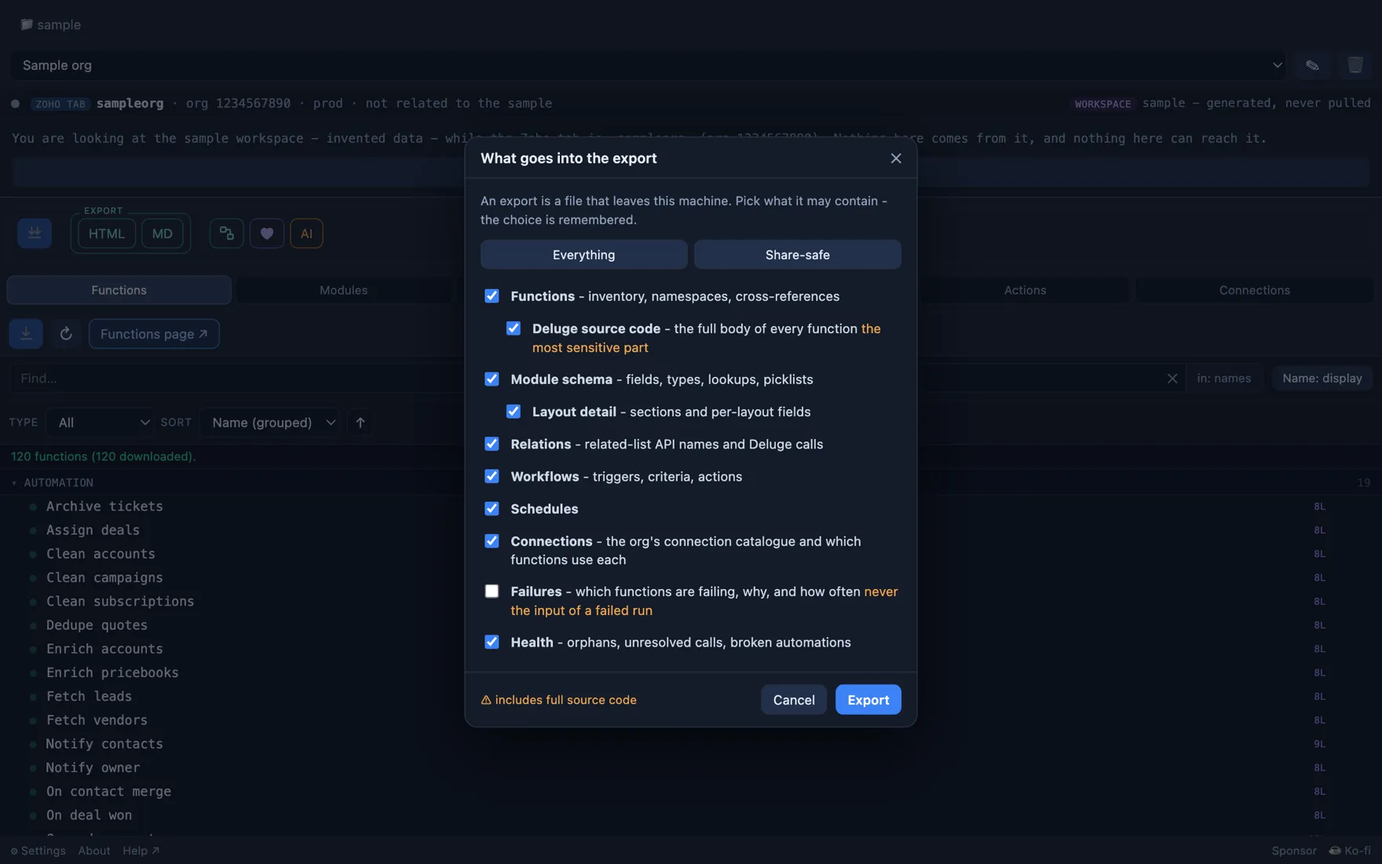
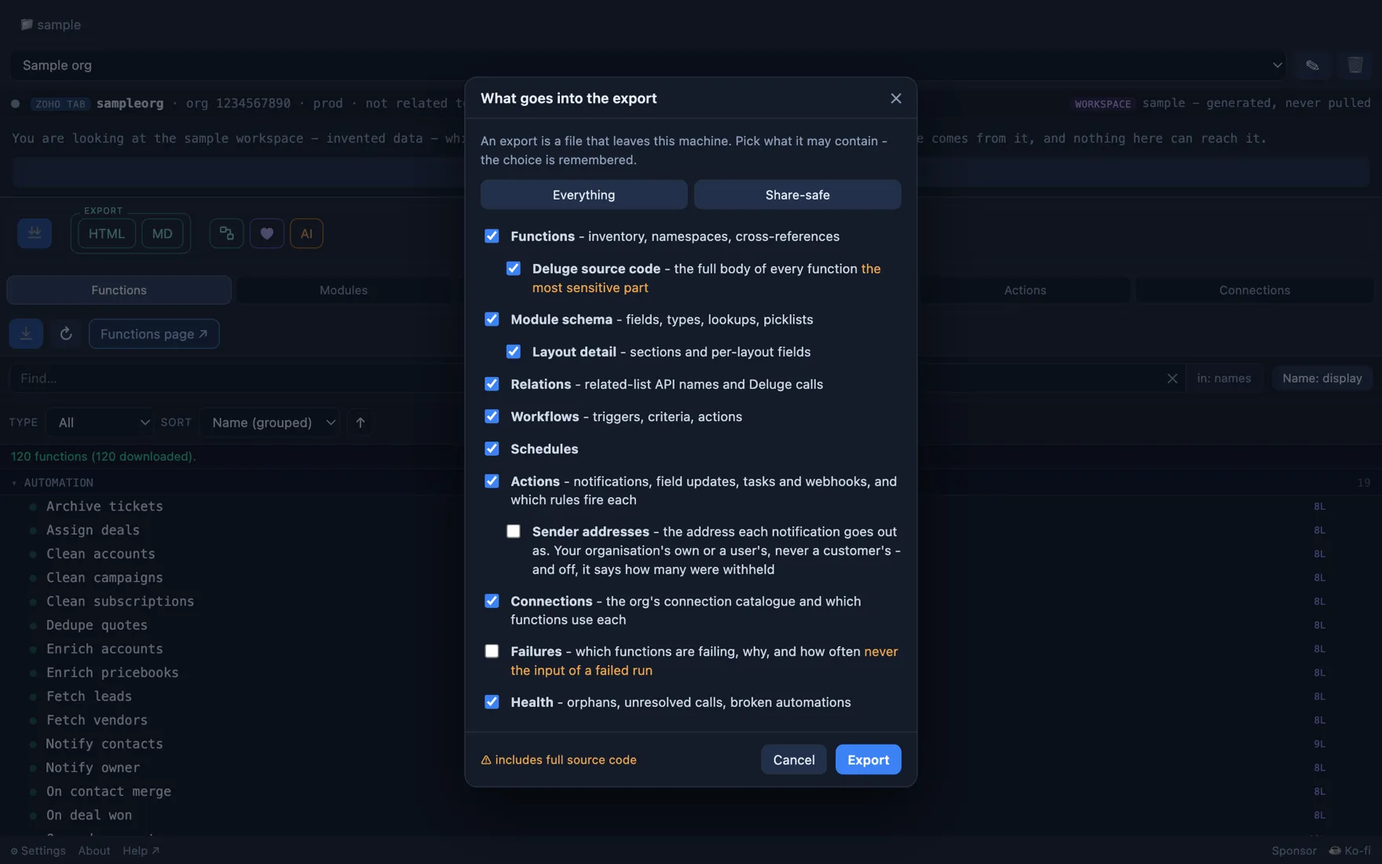
The dot was saying «half-downloaded», and the exports now carry the chapter
Reported: the amber ◐ on an action meant «no rule uses it» while in this panel
that glyph means «partial», i.e. that the mirror is incomplete. A glyph that
means two things is worse than none - this project has already paid for that
once, with ↺ against ↻. The dot is the mirror state again (● here), and how
many rules fire it is a **count** in a badge, which is what the Connections tab
already does for the functions using a connection. A number and no verdict:
zero says it by itself.

Also reported: a field update that names neither the field nor the value is a
name and nothing else - «Set stage to Won» against a picklist of nine. The list
endpoint carries both, plus the field's data type, and an absent value means
«clear it» rather than «not read», so it says that instead of showing a blank.
Measured on one org: 97 field updates, 69 of them writing a picklist.

Pagination was already looping to the end - 200 a page while more_records, and
that org has more than 200 notifications alone - but the 20-page bound was
silent. A kind that hits it is now named in the status line, because a census
that stops at four thousand without saying so lies by omission.

And both exports carry the chapter: what fires each action, per kind, with the
rules that fire it. The sender address is a scope of its own, **off by
default**, because an export is a file you hand to somebody and an address is
the one thing in this mirror that belongs to a person - and what was withheld is
[…]

Changed region(s): [[0.3438, 0.1545, 0.6562, 0.8964], [0.3438, 0.0927, 0.4688, 0.1236]]

diff --git a/apps/crm/sidepanel.js b/apps/crm/sidepanel.js
@@ -225,9 +225,13 @@ const LEGAL_LINE = `Created by ${PRODUCT_AUTHOR} \u00b7 ${PRODUCT_LICENSE} \u00b
 // ---------- export scope ----------
 // Coarse on purpose: sections, never single modules. A per-module allow-list would be a
 // permission system, and a permission system that is not enforced anywhere is theatre.
-const SCOPE_KEYS = ['functions', 'code', 'modules', 'layouts', 'relations', 'workflows', 'schedules', 'actions', 'connections', 'failures', 'health'];
-const SCOPE_FULL = { functions: true, code: true, modules: true, layouts: true, relations: true, workflows: true, schedules: true, actions: true, connections: true, health: true };
-const SCOPE_SAFE = { functions: true, code: false, modules: true, layouts: true, relations: true, workflows: false, schedules: false, actions: true, connections: true, health: false };
+const SCOPE_KEYS = ['functions', 'code', 'modules', 'layouts', 'relations', 'workflows', 'schedules', 'actions', 'addresses', 'connections', 'failures', 'health'];
+// `addresses` is off in both, and that is the one default here that is a decision rather than a
+// convenience: an export is a file you hand to somebody, and an address is the one thing in this
+// mirror that belongs to a person rather than to a configuration. It is one tick away, and the
+// report says how many it withheld so nobody reads a blank as an absence.
+const SCOPE_FULL = { functions: true, code: true, modules: true, layouts: true, relations: true, workflows: true, schedules: true, actions: true, addresses: false, connections: true, health: true };
+const SCOPE_SAFE = { functions: true, code: false, modules: true, layouts: true, relations: true, workflows: false, schedules: false, actions: true, addresses: false, connections: true, health: false };
 let expScope = Object.assign({}, SCOPE_FULL);
 // What the dialog is editing right now, and which of its boxes were cleared *for* the user because
 // the data behind them is behind. Kept apart from expScope for one reason: the export dialog saves
@@ -365,7 +369,7 @@ const AREA_SCOPE = {
   modules: ['modules', 'layouts', 'relations'],
   workflows: ['workflows'],
   schedules: ['schedules'],
-  actions: ['actions'],
+  actions: ['actions', 'addresses'],
   connections: ['connections'],
   failures: ['failures'],
 };
@@ -3469,12 +3473,13 @@ function freshnessLine() {
   return parts.join(' \u00b7 ');
 }
 
-function buildExportHtml(fns, mods, g, modRefs, wfs, scheds, conns, fails, scope) {
+function buildExportHtml(fns, mods, g, modRefs, wfs, scheds, conns, fails, acts, actUsers, scope) {
   scope = Object.assign({}, SCOPE_FULL, scope || {});
   if (!scope.functions) fns = [];
   if (!scope.modules) mods = [];
   wfs = scope.workflows ? (wfs || []) : []; scheds = scope.schedules ? (scheds || []) : [];
   conns = scope.connections ? (conns || []) : [];
+  acts = scope.actions ? (acts || []) : [];
   fails = scope.failures ? (fails || { failures: [] }) : { at: null, usage: null, failures: [] };
   const esc = escHtml;
   const ws = bound || {};
@@ -3726,6 +3731,29 @@ function buildExportHtml(fns, mods, g, modRefs, wfs, scheds, conns, fails, scope
     const status = c.missing ? '<span style="color:#b45309">not in catalogue</span>' : c.connected === false ? '<span style="color:#b45309">not connected</span>' : 'connected';
     return `<tr id="${escA(connAnchor(c.name))}"><td class="mono"><b>${esc(c.name)}</b></td><td>${esc(c.label || '')}</td><td class="mono">${esc(c.connector || '')}</td><td class="ct">${status}</td><td class="ct">${c.uses.length}</td><td>${usesLinks}</td></tr>`;
   });
+  // Automation actions. The count of rules that fire each is the column the chapter exists for, and
+  // the sender address is the one field a reader may not be allowed to receive - so it has a scope of
+  // its own, off by default, and what was withheld is stated rather than left blank.
+  const actWithheld = acts.filter((a) => a.from_address).length;
+  const actRows = acts.slice().sort((a, b) => (a.kind || '').localeCompare(b.kind || '') || byField('name')(a, b))
+    .map((a) => {
+      const users = (actUsers && actUsers.get(a.kind + ':' + String(a.id))) || [];
+      const detail = a.kind === 'email_notifications'
+        ? [a.template ? 'template: ' + esc(a.template.name || a.template.id) : '',
+           a.from_type ? 'from: ' + (scope.addresses && a.from_address ? esc(a.from_address) : esc(a.from_type === 'user' ? 'a user address' : 'an organisation address')) : '',
+           a.recipient_count != null ? esc(String(a.recipient_count)) + ' recipient(s)' : ''].filter(Boolean).join(' \u00b7 ')
+        : a.kind === 'field_updates' ? (a.field ? esc(a.field) + (a.field_type ? ' (' + esc(a.field_type) + ')' : '')
+            + ' \u2190 ' + (a.value === null || a.value === undefined ? 'cleared' : esc(String(a.value))) : '')
+        : a.kind === 'webhooks' ? [esc(a.method || ''), esc(a.url || '')].filter(Boolean).join(' ')
+        : a.notify === true ? 'notifies' : '';
+      return '<tr><td>' + esc(a.name || a.id) + '</td><td>' + esc(actionKindLabel(a.kind)) + '</td><td>' + esc(a.module || '') + '</td>'
+        + '<td class="num">' + users.length + '</td><td>' + users.map((w) => esc(w.name || w.id)).join(', ') + '</td><td>' + detail + '</td></tr>';
+    });
+  const actHtml = acts.length
+    ? '<p class="hxd">What a workflow rule fires, and which rules fire it. \u00abFired by\u00bb is read from the rules in this workspace, so a rule that was never pulled cannot appear in it.</p>'
+      + ((actWithheld && !scope.addresses) ? `<p class="note">${actWithheld} sender address(es) withheld - that section was left off. Nothing else about those notifications is missing.</p>` : '')
+      + `<table class="ftbl"><thead><tr><th>Action</th><th>Kind</th><th>Module</th><th>Rules</th><th>Fired by</th><th>Detail</th></tr></thead><tbody>${actRows.join('')}</tbody></table>`
+    : '';
   const connHtml = conns.length
     ? `<p class="hxd">The org's connections and the functions that use each - the join key is the name in <code>invokeurl […connection:"…"]</code>.</p><table class="ftbl"><thead><tr><th>Connection</th><th>Label</th><th>Connector</th><th>Status</th><th>Uses</th><th>Used by functions</th></tr></thead><tbody>${connRows.join('')}</tbody></table>`
     : '<p class="empty">No connections in this export.</p>';
@@ -3754,6 +3782,8 @@ function buildExportHtml(fns, mods, g, modRefs, wfs, scheds, conns, fails, scope
     + (wfs.length ? `<h3 class="toch">Workflows (${wfs.length})</h3><table class="toctbl"><thead><tr><th>Workflow</th><th>Module</th><th>Trigger</th><th>Active</th><th>Fn calls</th><th title="Actions that do not run immediately">Scheduled</th><th>Last run</th></tr></thead><tbody>${wfRows.join('')}</tbody></table>` : '')
     + (scheds.length ? `<h3 class="toch">Schedules (${scheds.length})</h3><table class="toctbl"><thead><tr><th>Schedule</th><th>Function</th><th>Frequency</th><th>Status</th></tr></thead><tbody>${schRows.join('')}</tbody></table>` : '')
     + (allRels.length ? `<h3 class="toch">Relations (${allRels.length})</h3><div class="tochx"><a href="#relations">Relation-first catalogue - related-list API names for Deluge</a></div>` : '')
+    + (acts.length ? `<h3 class="toch">Actions (${acts.length})</h3><div class="tochx"><a href="#actions">Notifications, field updates, tasks and webhooks - and which rules fire each</a></div>` : '')
+    + (acts.length ? `<h3 class="toch">Actions (${acts.length})</h3><div class="tochx"><a href="#actions">Notifications, field updates, tasks and webhooks - and which rules fire each</a></div>` : '')
     + (conns.length ? `<h3 class="toch">Connections (${conns.length})</h3><div class="tochx"><a href="#connections">Catalogue - connectors, status, and which functions use each</a></div>` : '')
     + (failRows.length ? `<h3 class="toch">Failures (${failRows.length})</h3><div class="tochx"><a href="#failures">What is breaking, as read on ${esc(fails.at ? new Date(fails.at).toLocaleDateString() : 'an unknown date')}</a></div>` : '')
     + (scope.health ? `<h3 class="toch">Health <span class="cnt">${healthTotal}</span></h3><div class="tochx"><a href="#health">Orphans ${hOrph.length} \u00b7 Unresolved ${hUnres.length} \u00b7 Ambiguous ${hAmbig.length} \u00b7 Broken ${hBroken.length} \u00b7 Missing FK ${hFK.length}</a></div>` : '')
@@ -3767,7 +3797,7 @@ function buildExportHtml(fns, mods, g, modRefs, wfs, scheds, conns, fails, scope
     + `<div class="meta">${ws.label ? `${esc(ws.label)} · ` : ''}${esc(ws.instance || '')} · org ${esc(ws.org || '')} · ${esc(envOf(ws.base))} · ${esc(now)} · ${fns.length} functions · ${mods.length} modules · contents: ${esc(SCOPE_KEYS.filter((k) => scope[k]).join(', ') || 'nothing')}${scope.code ? '' : ' · source code excluded'}</div>`
     + `<div class="meta">Data read from Zoho: ${esc(freshnessLine())}</div>`
     + `<input id="q" placeholder="Filter functions & modules…" oninput="filt()"></header>`
-    + `<main>${toc}<h2 id="functions">Functions</h2>${fnHtml || '<p class="empty">No functions.</p>'}<h2 id="modules">Modules</h2>${modHtml || '<p class="empty">No modules.</p>'}<h2 id="relations">Relations</h2>${relHtml}${wfs.length ? `<h2 id="workflows">Workflows</h2>${wfHtml}` : ''}${scheds.length ? `<h2 id="schedules">Schedules</h2>${schHtml}` : ''}${conns.length ? `<h2 id="connections">Connections</h2>${connHtml}` : ''}${failHtml ? `<h2 id="failures">Failures</h2>${failHtml}` : ''}${scope.health ? `<h2 id="health">Health</h2>${healthHtml}` : ''}</main>`
+    + `<main>${toc}<h2 id="functions">Functions</h2>${fnHtml || '<p class="empty">No functions.</p>'}<h2 id="modules">Modules</h2>${modHtml || '<p class="empty">No modules.</p>'}<h2 id="relations">Relations</h2>${relHtml}${wfs.length ? `<h2 id="workflows">Workflows</h2>${wfHtml}` : ''}${scheds.length ? `<h2 id="schedules">Schedules</h2>${schHtml}` : ''}${acts.length ? `<h2 id="actions">Actions</h2>${actHtml}` : ''}${acts.length ? `<h2 id="actions">Actions</h2>${actHtml}` : ''}${conns.length ? `<h2 id="connections">Connections</h2>${connHtml}` : ''}${failHtml ? `<h2 id="failures">Failures</h2>${failHtml}` : ''}${scope.health ? `<h2 id="health">Health</h2>${healthHtml}` : ''}</main>`
     + `<footer><div>Generated by ${PRODUCT_URL ? `<a href="${escA(PRODUCT_URL)}">${esc(PRODUCT_NAME)}</a>` : esc(PRODUCT_NAME)} · Created by ${esc(PRODUCT_AUTHOR)}${SPONSOR_URL ? ` · <a href="${escA(SPONSOR_URL)}">Sponsor</a>` : ''}${KOFI_URL ? ` · <a href="${escA(KOFI_URL)}">\u2615 Ko-fi</a>` : ''}</div><div class="legal">${esc(LEGAL_DISCLAIMER)}</div></footer>`
     + `<script>function filt(){var q=document.getElementById('q').value.trim().toLowerCase();document.querySelectorAll('.item').forEach(function(s){s.style.display=(!q||s.dataset.name.indexOf(q)>=0)?'':'none';});document.querySelectorAll('tr.relrow').forEach(function(r){r.style.display=(!q||r.dataset.name.indexOf(q)>=0)?'':'none';});}<\/script></body></html>`;
 }
@@ -3806,16 +3836,30 @@ async function loadExportData() {
   // whole and carries its own date into the report. `params` is not in it: the bridge never sent it.
   let fails = { at: null, usage: null, failures: [] };
   try { const d = JSON.parse(await readFile('failures/index.json')); if (d && Array.isArray(d.failures)) fails = d; } catch (_) {}
-  return { fns, mods, g, modRefs, wfs, scheds, conns, fails };
+  // The automation actions, and the map of which rules fire each - built from the rules that were
+  // just read rather than from the panel's cache, because an export must not depend on which tab
+  // the reader happened to open.
+  let acts = []; try { const a = JSON.parse(await readFile('actions/index.json')); if (Array.isArray(a)) acts = a; } catch (_) {}
+  const actUsers = new Map();
+  wfs.forEach((w) => ((w.detail && w.detail.conditions) || []).forEach((c) => {
+    const list = [];
+    if (c.instant_actions && c.instant_actions.actions) list.push(...c.instant_actions.actions);
+    (Array.isArray(c.scheduled_actions) ? c.scheduled_actions : []).forEach((sa) => list.push(...(sa.actions || [])));
+    list.forEach((a) => { if (!a || !a.type) return; const k = a.type + ':' + String(a.id);
+      if (!actUsers.has(k)) actUsers.set(k, []);
+      if (!actUsers.get(k).some((x) => String(x.id) === String(w.id))) actUsers.get(k).push({ id: w.id, name: w.name }); });
+  }));
+  return { fns, mods, g, modRefs, wfs, scheds, conns, fails, acts, actUsers };
 }
 function _mdCell(x) { return String(x == null ? '' : x).replace(/\|/g, '\\|').replace(/\n/g, ' '); }
 function buildExportMarkdown(d, scope) {
   scope = Object.assign({}, SCOPE_FULL, scope || {});
-  let { mods, g, wfs, scheds, conns, fails } = d;
+  let { mods, g, wfs, scheds, conns, fails, acts } = d;
   if (!scope.modules) mods = [];
   if (!scope.workflows) wfs = [];
   if (!scope.schedules) scheds = [];
   conns = scope.connections ? (conns || []) : [];
+  acts = scope.actions ? (acts || []) : [];
   fails = scope.failures ? (fails || { failures: [] }) : { at: null, usage: null, failures: [] };
   const nodes = scope.functions ? ((g && g.nodes) || {}) : {};
   const fnList = Object.values(nodes).sort((a, b) => (a.namespace + '.' + a.name).localeCompare(b.namespace + '.' + b.name));
@@ -3917,6 +3961,27 @@ function buildExportMarkdown(d, scope) {
     });
     md += '\n';
   }
+  // The actions a rule fires, for a reader who has the file and not the panel. This is the chapter
+  // an external model is most likely to be asked about - «what happens when a deal is won» - so the
+  // rules that fire each are in the row rather than a section away.
+  if (acts.length) {
+    const withheld = acts.filter((a) => a.from_address).length;
+    md += '---\n\n## Actions\n\nWhat a workflow rule fires: notifications, field updates, tasks and webhooks. Each exists on its own in Zoho and is reused across rules. "Fired by" is read from the rules in this workspace.\n\n';
+    if (withheld && !scope.addresses) md += `> ${withheld} sender address(es) withheld - that section was left off. Nothing else about those notifications is missing.\n\n`;
+    md += '| Action | Kind | Module | Rules | Fired by | Detail |\n|---|---|---|---|---|---|\n';
+    acts.slice().sort((a, b) => (a.kind || '').localeCompare(b.kind || '') || byField('name')(a, b)).forEach((a) => {
+      const users = (d.actUsers && d.actUsers.get(a.kind + ':' + String(a.id))) || [];
+      const detail = a.kind === 'email_notifications'
+        ? [a.template ? 'template ' + (a.template.name || a.template.id) : '',
+           a.from_type ? 'from ' + ((scope.addresses && a.from_address) || (a.from_type === 'user' ? 'a user address' : 'an organisation address')) : '',
+           a.recipient_count != null ? a.recipient_count + ' recipient(s)' : ''].filter(Boolean).join(' - ')
+        : a.kind === 'field_updates' ? (a.field ? `${a.field}${a.field_type ? ' (' + a.field_type + ')' : ''} <- ${a.value === null || a.value === undefined ? 'cleared' : a.value}` : '')
+        : a.kind === 'webhooks' ? [a.method || '', a.url || ''].filter(Boolean).join(' ')
+        : a.notify === true ? 'notifies' : '';
+      md += `| ${_mdCell(a.name || a.id)} | ${_mdCell(actionKindLabel(a.kind))} | ${_mdCell(a.module || '')} | ${users.length} | ${_mdCell(users.map((w) => w.name || w.id).join(', '))} | ${_mdCell(detail)} |\n`;
+    });
+    md += '\n';
+  }
   if (conns.length) {
     md += '---\n\n## Connections\n\nThe org\'s connections and which functions use each. The join key is the name in `invokeurl [...connection:"..."]`.\n\n';
     md += '| Connection | Label | Connector | Status | Uses | Used by |\n|---|---|---|---|---|---|\n';
@@ -3971,8 +4036,8 @@ async function exportHtml() {
   try {
     await requirePerm(dir);
     setStatus('Building HTML export\u2026', 'busy');
-    const { fns, mods, g, modRefs, wfs, scheds, conns, fails } = await loadExportData();
-    const html = buildExportHtml(fns, mods, g, modRefs, wfs, scheds, conns, fails, scope);
+    const { fns, mods, g, modRefs, wfs, scheds, conns, fails, acts, actUsers } = await loadExportData();
+    const html = buildExportHtml(fns, mods, g, modRefs, wfs, scheds, conns, fails, acts, actUsers, scope);
     const stamp = new Date().toISOString().slice(0, 16).replace(/[:T]/g, '-');
     const name = `export/zoost-${sanitize((bound && bound.instance) || 'workspace')}-${stamp}.html`;
     await writeFile(name, html);
@@ -4287,8 +4352,13 @@ async function pullActions() {
     // A kind that refused is stated rather than folded into the total: an org without webhooks and
     // an org whose role cannot read them look identical in a count.
     const missed = (r.missed || []).filter((m) => m && m.kind);
-    if (viewMode === 'actions') await rebuildActions();
-    else setStatus(`${(r.actions || []).length} action(s) pulled.` + (missed.length ? ` ${missed.length} kind(s) could not be read.` : ''), missed.length ? 'warn' : 'ok');
+    const capped = r.capped || [];
+    // Both are stated rather than folded into the count: a kind that refused and a kind that was cut
+    // short are two different reasons for a number to be smaller than the org.
+    const note = (missed.length ? ` ${missed.length} kind(s) could not be read.` : '')
+      + (capped.length ? ` ${capped.join(', ')} stopped at 4000 - there are more in Zoho.` : '');
+    if (viewMode === 'actions') { await rebuildActions(); if (note) setStatus(`${(r.actions || []).length} action(s).` + note, 'warn'); }
+    else setStatus(`${(r.actions || []).length} action(s) pulled.` + note, (missed.length || capped.length) ? 'warn' : 'ok');
     await noteAccess('actions', null);
   } catch (e) { await notePullFailure('actions', e); }
 }
@@ -4335,13 +4405,18 @@ function renderActions() {
     }
     const el = document.createElement('div'); el.className = 'f'; el.dataset.path = a.path;
     el.setAttribute('aria-selected', a.path === currentPath);
-    // «Attached to nothing» is the fact this list exists for, so it is the dot - and it is amber,
-    // which in this panel means «there is something to do», not red, which would be a verdict.
-    const dc = a.associated ? 'st-ok' : 'st-stale';
-    const dt = a.associated ? 'Used by at least one rule - click to re-read from Zoho'
-                            : 'No rule uses it, as far as Zoho reports - click to re-read from Zoho';
-    el.innerHTML = `<span class="st ${dc}" title="${escA(dt)}">${a.associated ? '\u25cf' : '\u25d0'}</span>`
+    // The dot is the mirror state and nothing else - «this is on your disk» - because that is what
+    // it means on every other tab: ● here · ○ not here yet · ◐ partial · ⟳ failed · ⊘ refused. It
+    // was ◐ for «no rule uses it», which reads as «downloaded incompletely»: a glyph that means two
+    // things is worse than none, and this panel has already paid for that once with ↺ against ↻.
+    //
+    // «Attached to nothing» is a fact about the object, so it is a badge, and it is a **count** -
+    // the same one the Connections tab shows for the functions using a connection. A number and no
+    // verdict: zero says it by itself, and the filter is how you list them.
+    const used = actionFiredBy(a).length;
+    el.innerHTML = `<span class="st st-ok" title="In the local mirror - click to re-read from Zoho">\u25cf</span>`
       + `<span class="fname">${escHtml(a.name || a.id)}</span>`
+      + `<span class="rest ${used || a.associated ? 'rf' : 'rc'}" title="${escA(used ? 'rules that fire it, read from the rules on disk' : a.associated ? 'Zoho reports it as in use; no rule on disk names it' : 'no rule uses it, as far as Zoho reports')}">${used}\u00d7</span>`
       + (a.module ? `<span class="rest rl" title="module">${escHtml(a.module)}</span>` : '');
     el.querySelector('.st').onclick = (ev) => { ev.stopPropagation(); refreshActions(); };
     el.onclick = () => openAction(a);
@@ -4371,7 +4446,15 @@ function openAction(a) {
     + (a.template ? row('Template', escHtml(a.template.name || a.template.id)) : '')
     + (a.from_type ? row('From', escHtml(a.from_type === 'user' ? 'a user\u2019s address' : 'an organisation address') + (a.from_address ? ` \u00b7 <span class="mono">${escHtml(a.from_address)}</span>` : '')) : '')
     + (a.recipient_count != null ? row('Recipients', `${escHtml(String(a.recipient_count))} \u00b7 <span style="color:var(--muted)">a count; Zoost never reads who they are</span>`) : '')
-    + (a.field ? row('Field', `<span class="mono">${escHtml(a.field)}</span>`) : '')
+    + (a.field ? row('Field', `<span class="mono">${escHtml(a.field)}</span>`
+        + (a.field_label && a.field_label !== a.field ? ` \u00b7 ${escHtml(a.field_label)}` : '')
+        + (a.field_type ? ` <span style="color:var(--muted)">${escHtml(a.field_type)}</span>` : '')) : '')
+    // «Set stage to Won» does not say which value, and on a picklist of nine that is the whole
+    // question. An absent value is «clear the field» rather than «we did not read it», so it is
+    // written as that and not as a blank.
+    + (a.field ? row('Writes', a.value === null || a.value === undefined
+        ? '<span style="color:var(--muted)">clears the field</span>'
+        : `<b>${escHtml(String(a.value))}</b>`) : '')
     + (a.method ? row('Method', escHtml(a.method)) : '')
     + (a.url ? row('URL', `<span class="mono">${escHtml(a.url)}</span>`) : '')
     + (a.notify === true ? row('Notify', 'yes') : '')

diff --git a/apps/crm/content-bridge.js b/apps/crm/content-bridge.js
@@ -393,13 +393,24 @@
       row.from_address = (r.from_address && r.from_address.resource) || null;
       row.recipient_count = r.recipient_count != null ? Number(r.recipient_count) : null;
     }
-    if (kind === 'field_updates') row.field = (r.field && (r.field.api_name || r.field.name)) || '';
+    // A field update without the field and the value it writes is a name and nothing else - which is
+    // what «Set stage to Won» tells you when the picklist has nine values. Measured on one org: 97 of
+    // them, 69 writing a picklist, and the value is a string, a boolean or absent (which is «clear
+    // it», not «unknown»). `type` was `static` on all 97; when Zoho starts returning something else,
+    // it is here and the panel can say so.
+    if (kind === 'field_updates') {
+      row.field = (r.field && (r.field.api_name || r.field.name)) || '';
+      row.field_label = (r.field && r.field.field_label) || '';
+      row.field_type = (r.field && r.field.data_type) || '';
+      row.value = r.value === undefined ? null : r.value;
+      row.value_kind = r.value === null || r.value === undefined ? 'cleared' : (r.type || 'static');
+    }
     if (kind === 'tasks') row.notify = r.notify === true;
     if (kind === 'webhooks') { row.method = r.method || ''; row.url = r.url || r.display_url || ''; }
     return row;
   }
   async function pullActions() {
-    const out = [], missed = [];
+    const out = [], missed = [], capped = [];
     for (const k of ACTION_KINDS) {
       let page = 1;
       try {
@@ -410,7 +421,11 @@
           rows.forEach((r) => out.push(actionRow(k.kind, r)));
           const info = resp.info || {};
           if (!info.more_records || rows.length === 0) break;
-          if (++page > 20) break;   // the same bound the workflow list uses, for the same reason
+          // 200 a page, and the org this was measured on has more than that of one kind alone. The
+          // bound is the workflow list's, for the same reason - a runaway loop against somebody
+          // else's pagination is not a thing to ship - and hitting it is **reported**, because a
+          // list that silently stops at four thousand is a census that lies by omission.
+          if (++page > 20) { capped.push(k.kind); break; }
         }
       } catch (e) {
         // One kind refusing is not the area failing: an org may not have the feature, or the role
@@ -418,7 +433,7 @@
         missed.push({ kind: k.kind, error: (e && e.message) || String(e), status: e && e.status, forbidden: !!(e && e.forbidden) });
       }
     }
-    return { total: out.length, actions: out, missed };
+    return { total: out.length, actions: out, missed, capped };
   }
 
   async function pullConnections() {

diff --git a/apps/crm/sidepanel.html b/apps/crm/sidepanel.html
@@ -476,6 +476,8 @@
       <label class="ck"><input type="checkbox" id="sc_relations"><span><b>Relations</b> - related-list API names and Deluge calls</span></label>
       <label class="ck"><input type="checkbox" id="sc_workflows"><span><b>Workflows</b> - triggers, criteria, actions</span></label>
       <label class="ck"><input type="checkbox" id="sc_schedules"><span><b>Schedules</b></span></label>
+      <label class="ck"><input type="checkbox" id="sc_actions"><span><b>Actions</b> - notifications, field updates, tasks and webhooks, and which rules fire each</span></label>
+      <label class="ck ind"><input type="checkbox" id="sc_addresses"><span><b>Sender addresses</b> - the address each notification goes out as. Your organisation's own or a user's, never a customer's - and off, it says how many were withheld</span></label>
       <label class="ck"><input type="checkbox" id="sc_connections"><span><b>Connections</b> - the org's connection catalogue and which functions use each</span></label>
       <label class="ck"><input type="checkbox" id="sc_failures"><span><b>Failures</b> - which functions are failing, why, and how often <em>never the input of a failed run</em></span></label>
       <label class="ck"><input type="checkbox" id="sc_health"><span><b>Health</b> - orphans, unresolved calls, broken automations</span></label>

diff --git a/apps/crm/sample-org.js b/apps/crm/sample-org.js
@@ -394,7 +394,15 @@
         a.from_address = i % 3 === 0 ? 'sales@example.com' : 'noreply@example.com';
         a.recipient_count = 1 + (i % 3);
       }
-      if (kind === 'field_updates') a.field = ['Stage', 'Owner', 'Reviewed', 'Priority'][i % 4];
+      if (kind === 'field_updates') {
+        // The three shapes a value comes in - a picklist string, a boolean, and none at all, which
+        // means «clear it» and not «unknown». 69 of 97 in a real org write a picklist.
+        a.field = ['Stage', 'Owner', 'Reviewed', 'Priority'][i % 4];
+        a.field_label = ['Stage', 'Owner', 'Reviewed', 'Priority'][i % 4];
+        a.field_type = ['picklist', 'ownerlookup', 'boolean', 'picklist'][i % 4];
+        a.value = [ 'Won', null, true, 'High' ][i % 4];
+        a.value_kind = a.value === null ? 'cleared' : 'static';
+      }
       if (kind === 'tasks') a.notify = i % 2 === 0;
       if (kind === 'webhooks') { a.method = 'POST'; a.url = 'https://example.com/hooks/warehouse'; }
       actions.push(a);
